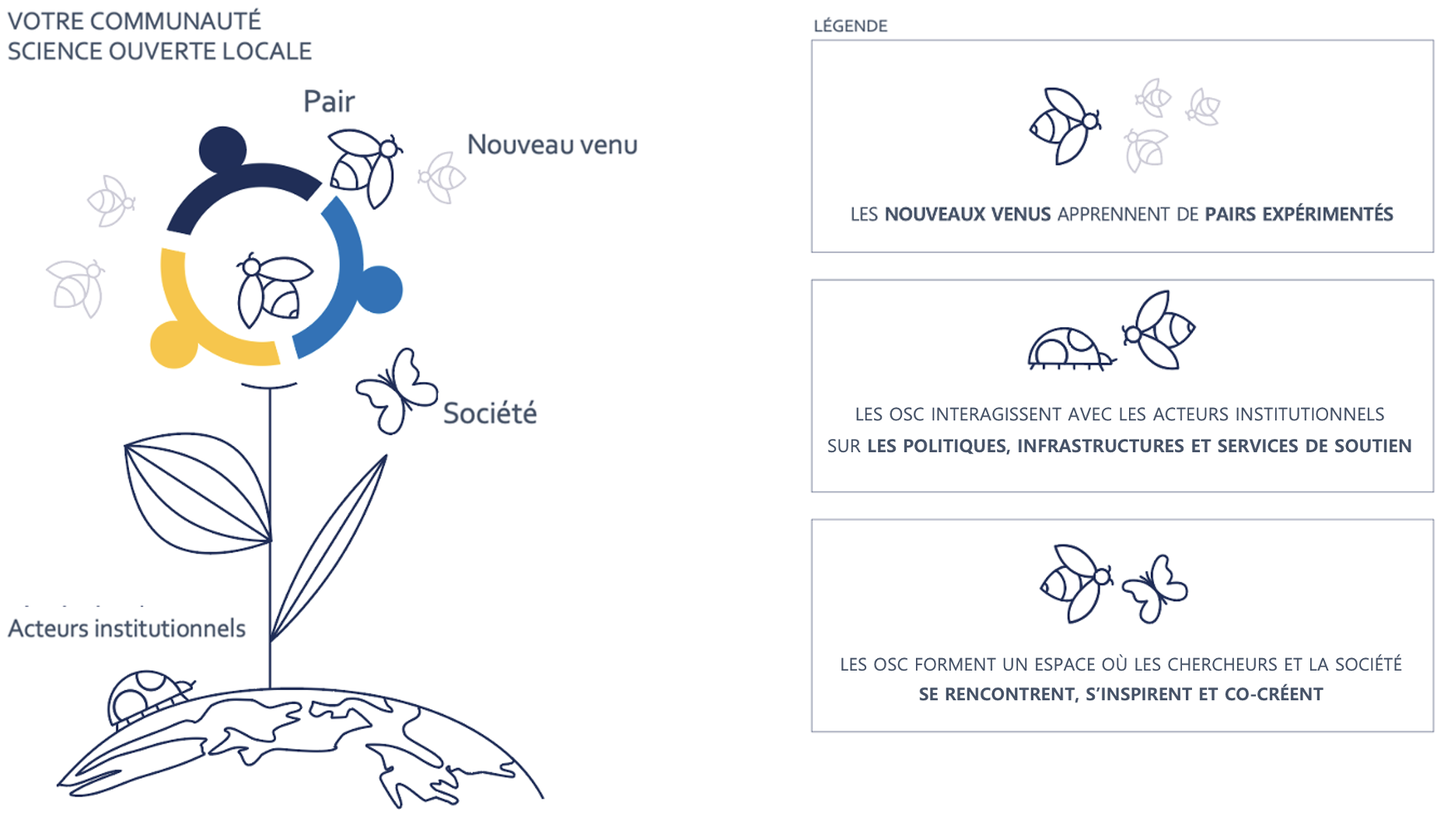
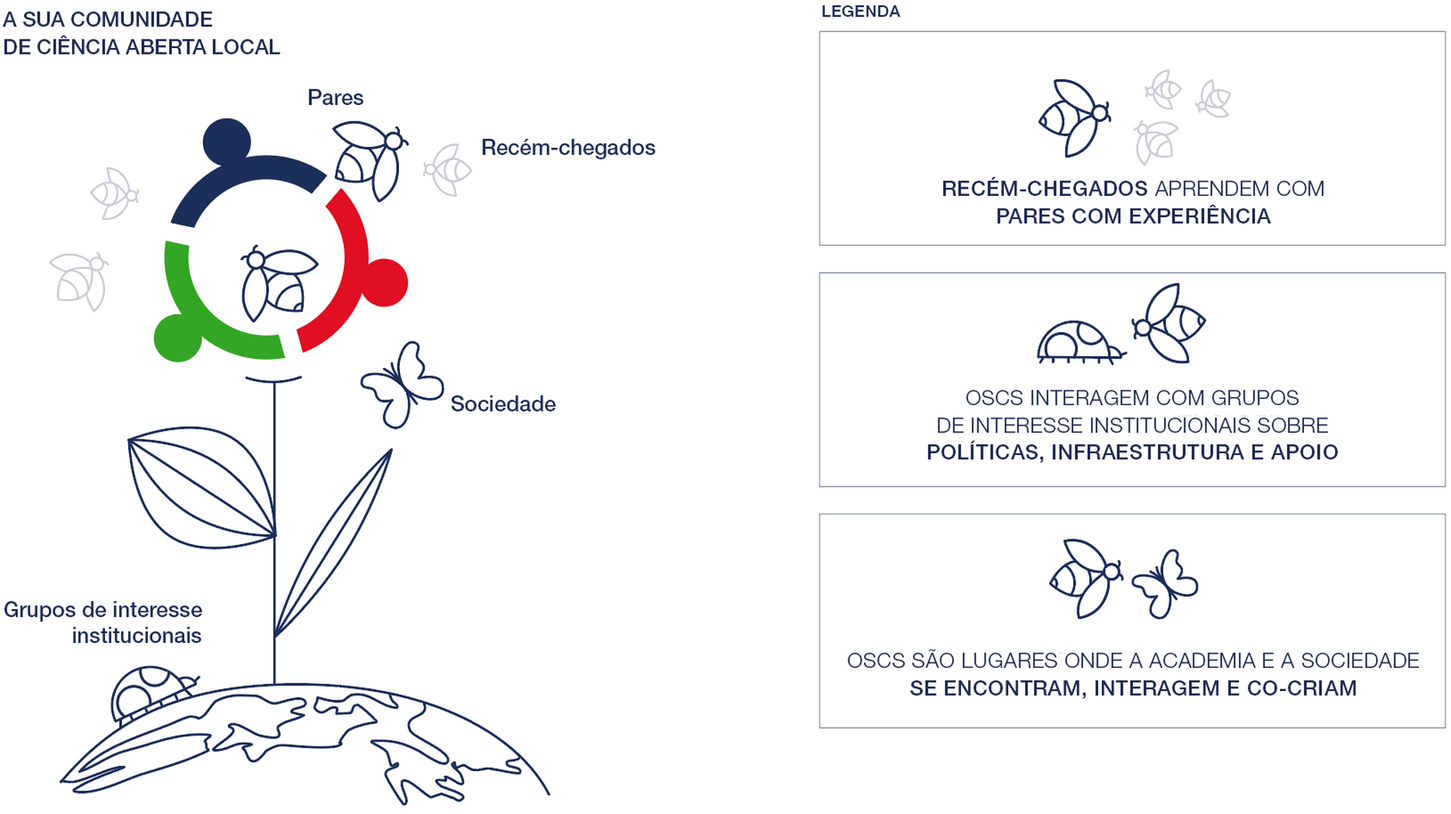
Chapter 1

diff --git a/content/pt/docs/chapter1/_index.md b/content/pt/docs/chapter1/_index.md
@@ -1,147 +1,147 @@
 ---
 # Title, summary, and page position.
-linktitle: 'Partie I : Introduction aux Communautés science ouverte'
+linktitle: 'Seção I : Introdução às Comunidades Científicas Abertas'
 summary: ''
 weight: 1
 icon: book
 icon_pack: fas
 
 # Page metadata.
-title: 'Partie I'
-date: "2021-10-11"
+title: 'Seção I'
+date: "2022-05-11"
 type: book  # Do not modify.
 ---
 
-## I.1 Le rôle des Communautés dans la transition vers la science ouverte
+## I.1 O papel das comunidades na transição para a Ciência Aberta
 
-La science ouverte[^1] (SO) recouvre un [vaste ensemble de pratiques](https://www.fosteropenscience.eu/themes/fosterstrap/images/taxonomies/os_taxonomy.png) qui ne cesse de croître et qui rend la production scientifique (publications, données, codes, protocoles, etc.) plus accessible, transparente, robuste et inclusive. La raison d'être de ces pratiques est que [l'ouverture améliore la qualité, l'efficacité et l'impact de la science](https://doi.org/10.3390/publications7030046). Si certaines de ces pratiques commencent à se généraliser (par exemple l'accès libre aux publications), d'autres sont loin d'être courantes (par exemple les données ouvertes et les preprints). Si vous lisez ce kit de démarrage, vous connaissez probablement un grand nombre de ces pratiques et vous êtes convaincus que la SO est bénéfique pour la science et la société. Nous le sommes aussi !
+A Ciência Aberta[^1] engloba um [conjunto grande e crescente de práticas](https://www.fosteropenscience.eu/themes/fosterstrap/images/taxonomies/os_taxonomy.png) que tornam a produção académica (publicações, dados, código, protocolos, etc.) mais acessível, transparente, confiável e inclusiva. A lógica por trás de qualquer uma destas práticas é que [a abertura aumenta a qualidade, a eficiência e o impacto da ciência](https://doi.org/10.3390/publications7030046). Si certaines de ces pratiques commencent à se généraliser (par exemple l'accès libre aux publications), d'autres sont loin d'être courantes (par exemple les données ouvertes et les preprints). Enquanto algumas práticas estão a começar a tornar-se mais difundidas (como a *Publicação em Acesso Aberto*), outras estão longe de ser aplicadas de forma corrente (por exemplo, *Dados abertos e Pré-impressões*). Se está a ler este Kit de Iniciação, provavelmente conhece muitas destas práticas e está convencido de que a Ciência Aberta é benéfica para a ciência e para a sociedade. Nós também!
 
-À première vue, la transition vers la SO peut sembler plutôt facile à réaliser. Pourquoi les gens n'adopteraient-ils pas ce formidable ensemble de nouvelles pratiques ? En réalité, cela ne demande rien de moins qu'un profond changement culturel dans le monde académique. Comme l'explique Brian Nosek dans [ce billet de blog](https://cos.io/blog/strategy-culture-change/), un changement culturel nécessite un ensemble d'ingrédients clés que l'on peut représenter sous forme de pyramide (*Figure 1*).
-
-***
-
-![La pyramide du changement culturel](./fig1.png "La pyramide du changement culturel")
-***Figure 1**. La pyramide du changement culturel. Illustration de Brian Nosek (sous [licence CC BY](https://twitter.com/BrianNosek/status/1446528277271748611)), tirée du billet de blog [Strategy for Culture Change](https://www.cos.io/blog/strategy-for-culture-change)*
+À primeira vista, a transição para a Ciência Aberta pode parecer bastante fácil de realizar. Por que motivo as pessoas não abraçariam este grande novo conjunto de práticas? Na realidade, requer nada menos do que uma profunda mudança cultural na academia. Conforme articulado por Brian Nosek nesta [publicação no blog](https://cos.io/blog/strategy-culture-change/), uma mudança de cultura precisa de um conjunto de ingredientes-chave que podem ser representados como uma pirâmide (*Figura 1*).
 
 ***
 
-Au sommet de cette pyramide se trouve la **politique**. Pour un changement culturel en faveur de la SO dans le monde académique, des politiques publiques sont nécessaires pour la promouvoir et s'assurer que les incitations institutionnelles sont alignées en conséquence. Au bas de cette pyramide, nous trouvons l'**infrastructure** nécessaire. Il est essentiel de disposer d'une infrastructure fiable, flexible et ergonomique pour mettre en pratique la science ouverte. Les plateformes en ligne permettent de mettre en place des flux de travail collaboratifs (par ex. [Open Science Framework](https://cos.io/)), de stocker et partager des données, codes et autres résultats (voir également [EOSC](https://www.eosc-portal.eu/)) et des services de soutien, par exemple, ceux fournis par les services de documentation. Cependant, malgré les politiques récentes et les infrastructures disponibles, nous attendons toujours un véritable changement culturel. Qu'est-ce qui nous retient ? Ce défi se situe au niveau de la couche intermédiaire de la pyramide, les **communautés** qui rendent la SO normale. À l'heure actuelle, la communauté scientifique engagée dans la SO est relativement restreinte et se compose principalement de personnes qui ont déjà une certaine pratique de la SO. Ces pionniers de la SO jouent souvent un rôle consultatif en matière de politique et d'infrastructure. Bien que leur contribution soit extrêmement précieuse, ils peuvent négliger les obstacles rencontrés par les nouveaux venus dans la SO. Ces nouveaux venus représentent le champ scientifique dans son sens le plus large : il ne s'agit pas seulement d'étudiants ou de chercheurs en début de carrière, mais aussi de chercheurs senior qui sont habitués à un mode de travail pendant des décennies et qui s'intéressent maintenant à des pratiques plus ouvertes. Si l'on n'implique pas cette communauté plus large et si l'on ne fait pas appel à des objectifs et des valeurs partagés, la SO risque de devenir une perte de temps ou "une case de plus à cocher" au lieu d'enrichir les méthodes de travail de chacun. L'adoption à grande échelle de la SO dépend donc de la transition des pionniers à la majorité précoce et tardive (*Figure 2*).
+![A pirâmide da mudança cultural](./fig1.png "A pirâmide da mudança cultural")
+***Figura 1**. A pirâmide da mudança de cultura. Imagem de Brian Nosek (sous [licenciada CC BY-ND 4.0](https://twitter.com/BrianNosek/status/1446528277271748611)), reproduzida da publicação do blog [Strategy for Culture Change](https://www.cos.io/blog/strategy-for-culture-change).*
 
 ***
 
-![Cycle de diffusion de l'innovation selon Everett Rogers](./fig2.png "Cycle de diffusion de l'innovation selon Everett Rogers")
-***Figure 2**. [Cycle de diffusion de l'innovation selon Everett Rogers](https://en.wikipedia.org/wiki/Technology_adoption_life_cycle#/media/File:DiffusionOfInnovation.png), indiquant les étapes par lesquelles passe généralement toute innovation : Innovateurs, Premiers adeptes, Majorité précoce, Majorité tardive, Retardataires.*
+No topo desta pirâmide está a **Política**. Para uma mudança cultural em direção à Ciência Aberta na academia, são necessárias políticas para a promover e garantir que os incentivos institucionais estejam alinhados com a Ciência Aberta. Na base dessa pirâmide, encontramos a **infraestrutura** necessária. Ter uma infraestrutura confiável, flexível e fácil de usar é essencial para colocar a Ciência Aberta em prática. As plataformas online permitem fluxos de trabalho colaborativos (por exemplo, a [Open Science Framework](https://cos.io/)), para armazenar e partilhar materiais, dados, código e os resultados (veja também a [European Open Science Cloud](https://www.eosc-portal.eu/)) e serviços de suporte, como aqueles fornecidos por Bibliotecas Universitárias ou de Politécnicos. Apesar das políticas recentes e da infraestrutura disponível, ainda estamos a aguardar uma verdadeira mudança cultural. O que está nos está a atrasar? Este desafio está na camada do meio da pirâmide, nas **Comunidades** que tornam a Ciência Aberta estatutária. Atualmente, a comunidade académica comprometida com a Ciência Aberta é relativamente pequena e consiste principalmente de pessoas pioneiras, que muitas vezes já são bastante experientes com práticas de Ciência Aberta. Estes pioneiros geralmente desempenham um papel consultivo em políticas e infraestrutura. Embora a sua contribuição seja extremamente valiosa, eles podem ignorar obstáculos enfrentados pelos recém-chegados à Ciência Aberta. Estes recém-chegados abrangem o campo académico de forma ampla: eles não serão apenas estudantes ou investigadores em início de carreira, mas provavelmente também académicos seniores, com prática de trabalho científico de décadas, que se interessaram agora em trabalhar de forma aberta com outros académicos. Sem envolver esta comunidade mais alargada e apelar para objetivos e valores científicos partilhados, a Ciência Aberta corre o risco de se tornar demorada, em vez de enriquecer as metodologias de trabalho de todos. A prática de Ciência Aberta em larga escala depende, portanto, da sua capacidade de ser adotada, dos pioneiros para a maioria da comunidade académica (*Figura 2*).
 
 ***
 
-Tout changement culturel a besoin d'une masse critique pour remettre en question et modifier le *statu quo*, et l'apport des nouveaux venus est essentiel pour affiner la politique et l'infrastructure nécessaires pour parvenir à une adoption large de la SO. Le principal défi de la transition vers la science ouverte est donc un **défi social** : comment impliquer une masse critique de la communauté scientifique ? Si beaucoup vivent la transition vers l'ouverture comme libératrice et plus conforme à leurs motivations intrinsèques, d'autres sont plus réticents à changer pour plusieurs raisons. Il se peut qu'ils soient à l'aise dans leurs pratiques actuelles, qu'ils n'en voient pas les avantages, qu'ils considèrent que l'investissement n'en vaut pas la peine, ou qu'ils soient dépassés et frustrés par la surcharge d'information et l'absence de norme et de reconnaissance institutionnelle. Certains pourraient même penser que la SO n'est qu'une phase, et voudront attendre que cela se calme. Sauf que ça ne se calmera pas. La transition est bel et bien là et tous les chercheurs devront y faire face. Le moment est venu de construire et de façonner cette transition et, pour cela, nous avons besoin de la contribution de la communauté scientifique dans son ensemble.
+![Curva do Sino de Roger](./fig2.png "Curva do Sino de Roger")
+***Figura 2**. [O Ciclo de Vida de Adoção da Inovação, ou Curva do Sino de Roger](https://en.wikipedia.org/wiki/Technology_adoption_life_cycle#/media/File:DiffusionOfInnovation.png), indicando os estágios pelos quais qualquer inovação normalmente passa: Inovadores, Adotantes Iniciais, Maioria Inicial, Maioria Tardia e Retardatários.*
 
-C'est là que les Communautés science ouverte (en anglais *Open Science Communities* ou OSC) entrent en jeu. Il s'agit de communautés d'apprentissage par la base conçues pour une grande partie des chercheurs. Pour ce faire, nous rendons les OSC plus **visibles**, plus **accessibles**, et nous explorons les **obstacles et les exigences** qui se présentent aux nouveaux venus qui veulent ouvrir leurs pratiques. Pour une présentation plus détaillée du rôle des OSC dans la transition vers la science ouverte, veuillez lire notre [livre blanc](https://doi.org/10.31222/osf.io/7gct9/).
+***
 
-Pour mettre en place un changement mondial vers la SO, nous avons besoin de nombreuses OSC locales, à travers le monde. C'est avec ces objectifs en tête que nous avons créé ce kit de démarrage, pour vous inspirer et vous permettre de créer une OSC locale. La clé pour accélérer la transition vers la SO peut, littéralement, être entre vos mains.
+Qualquer mudança cultural precisa de massa crítica para desafiar e mudar o *status quo*, e a contribuição dos recém-chegados é essencial para refinar a política e a infraestrutura necessárias para alcançar uma ampla adoção da Ciência Aberta. O principal desafio na transição para a Ciência Aberta é, portanto, um **desafio social**: como atrair a massa crítica necessária da comunidade académica? Enquanto muitos experimentam a transição para a abertura como libertadora e mais de acordo com motivações intrínsecas, outros hesitam em mudar, por várias razões. Podem sentir-se confortáveis com as suas práticas atuais, não entender os benefícios adicionais, não considerar que vale a pena o investimento ou ficar sobrecarregados e frustrados pelo simples acumular de novas informações, e pela falta de práticas padronizadas e de reconhecimento institucional. Alguns podem até sentir que a Ciência Aberta é apenas uma fase e desejarão esperar até que acabe. A realidade é que não vai acabar. A transição é real e todos os estudiosos e investigadores terão de lidar com ela. É a hora de construirmos e moldarmos esta transição e, para isso, precisamos da contribuição da comunidade académica no geral.
 
-## I.2 Notre format pour les Communautés science ouverte
+É aqui que as Comunidades de Ciência Aberta (em inglês *Open Science Communities*, OSCs) entram em cena. São comunidades de aprendizagem "de baixo para cima", projetadas para atrair uma grande parte dos investigadores. Fazemos isto tornando a Ciência Aberta mais **visível**, mais **acessível** e explorando os **obstáculos e os requisitos** para que os recém-chegados tornarem as suas práticas de trabalho mais abertas. Para uma introdução mais elaborada do papel das OSC na transição para a Ciência Aberta, leia nosso [Whitepaper](https://doi.org/10.1093/scipol/scab039).
 
-Le format d'OSC que nous présentons dans ce kit de démarrage est une communauté d'apprentissage **ascendante** (*bottom-up*) composée de membres de différentes disciplines scientifiques à différents stades de leur carrière. Les OSC s'adressent principalement aux universitaires mais toute personne, qu'elle soit issue du secteur privé, des pouvoirs publics ou de la société, est également la bienvenue.
+Para incentivar uma mudança global em direção à Ciência Aberta, precisamos de muitas OSCs locais, em todo o mundo. É com este objetivo em mente que criámos este Kit de Iniciação, para inspirar e capacitar pessoas como você a criar uma OSC local. A chave para acelerar a transição para a Ciência Aberta pode, literalmente, estar nas suas mãos.
 
-Notre vision et notre mission sont :
+## I.2 O Nosso formato para Comunidades de Ciência Aberta
 
-> **Vision et mission**
+O formato de OSCs que apresentamos neste Kit de Iniciação é uma comunidade de aprendizagem **ascendente**, composta por membros de várias disciplinas científicas e estádios de carreira. O principal público-alvo das OSCs são académicos, mas também é extensível a outros. A indústria, ministérios ou cidadãos, também são bem-vindos.
+
+A nossa visão e missão são:
+
+> **Visão e missão**
 >
-> La science ouverte améliore la qualité, l'accessibilité et l'efficacité de la science, mais n'est **pas encore la norme** dans la recherche. Alors que des chercheurs pionniers développent et adoptent les pratiques de science ouverte, la majorité s'en tient au *statu quo*. Pour *passer des pionniers à la pratique courante*, nous devons engager une part significative de la communauté académique.
+> A Ciência Aberta melhora a qualidade, a acessibilidade e a eficiência da ciência, mas ainda **não é a norma** na investigação. Enquanto académicos pioneiros estão a desenvolver e a adotar práticas de Ciência Aberta, a maioria mantém o *status quo*. Para *passar dos pioneiros à prática comum*, precisamos de envolver uma proporção crítica da comunidade de investigadores.
 >
-> C'est ici que les Communautés science ouverte entrent en jeu.
+> É aqui que as Comunidades de Ciência Aberta entram.
 >
-> Les Communautés science ouverte offrent un lieu où **les nouveaux venus et les pairs expérimentés** interagissent, **s'inspirent mutuellement** pour intégrer les pratiques et les valeurs de la science ouverte dans leurs pratiques, et font un retour sur les feuilles de route, l'infrastructure et les services de soutien.
+> As Comunidades de Ciência Aberta fornecem um local onde **recém-chegados e colegas experientes** interagem e **se inspiram uns aos outros** a incorporar práticas e valores de Ciência Aberta nos seus métodos de trabalho, enquanto fornecem feedback sobre políticas, infraestrutura e serviços de apoio.
 >
-> Ensemble, nous faisons de la science ouverte une norme !  
+> Juntos, fazemos da Ciência Aberta a norma!
 
-La mission ci-dessus peut être décomposée en objectifs pratiques (*Figure 3*) :
+A missão acima pode ser dividida em objetivos práticos (*Figura 3*) :
 
-> **Objectifs**
-> - Accueillir les nouveaux venus à la science ouverte
-> - Augmenter l'appropriation des pratiques de science ouverte
-> - Servir de terreau aux initiatives de science ouverte
-> - Interagir avec les politiques, les infrastructures et les services de soutien
-> - Renforcer les interactions entre le monde académique et la société
+> **Objetivos**
+> - Convide recém-chegados para a Ciência Aberta
+> - Aumente o seu envolvimento em práticas de Ciência Aberta
+> - Sirva como um terreno fértil para iniciativas de Ciência Aberta
+> - Interaja com políticas, infraestrutura e serviços de apoio
+> - Promova interações entre a academia e a sociedade
 
 ***
 
-![Principales raisons d'être des OSC](./fig3.png "Principales raisons d'être des OSC")
-***Figure 3**. Schéma présentant les principales raisons d'être d'une Communauté science ouverte (en légende).*
+![Principais objetivos das OSC](./fig3.png "Principais objetivos das OSC")
+***Figura 3**. Infográfico que destaca os principais objetivos de uma Comunidade de Ciência Aberta (ver legenda).*
 
 ***
 
-*Objectif n°&nbsp;1 - Accueillir les nouveaux venus à la science ouverte*  
-L'objectif principal d'une OSC est d'accueillir les nouveaux venus dans le domaine de la SO et de proposer un espace où ils peuvent apprendre de leurs pairs et identifier les moyens de surmonter les difficultés lors de la transition vers des pratiques (plus) ouvertes. Une OSC est une communauté d'apprentissage : il n'est pas nécessaire d'avoir une quelconque expérience de la SO pour rejoindre la Communauté, ni de s'engager formellement à adopter de telles pratiques. Ce qui unit les membres de la Communauté, c'est leur intérêt pour la SO, affiché publiquement sur le site web de leur OSC.   
-Pour interagir avec les nouveaux venus, il est crucial qu'ils connaissent l'existence de votre Communauté. Vous devez être visible. De même, les nouveaux venus doivent être attirés par la Communauté. Ils doivent se sentir chez eux. Il est essentiel de trouver le bon ton. Nous fournissons des consignes pratiques à cet égard dans la [*Partie II*]({{< ref "../chapter2/_index.md" >}}).
+*Objetivo n°&nbsp;1 - Convide os recém-chegados para a Ciência Aberta*  
+O objetivo principal de uma OSC é dar as boas-vindas aos recém-chegados à Ciência Aberta e fornecer uma plataforma onde possam aprender com os seus pares e identificar maneiras de superar barreiras ao fazer a transição para métodos de trabalho (mais) abertos. Uma OSC é uma comunidade de aprendizagem: não precisa de ter nenhuma experiência com Ciência Aberta para ingressar na comunidade ou para se comprometer com essas práticas ao ingressar. O que une os membros da comunidade é o interesse pela Ciência Aberta, exibido publicamente no site da sua Comunidade.
+Para interagir com os recém-chegados, é fundamental que eles saibam da existência da sua Comunidade de Ciência Aberta. É preciso que esteja visível. Além disso, os recém-chegados precisam de ser atraídos para a comunidade. Precisam de se sentir em casa. É esta a chave para se atingir o tom certo. Fornecemos orientações práticas a esse respeito na [*Seção II*]({{<ref"../chapter2/_index.md">}}).
 
-*Objectif n°&nbsp;2 - Augmenter l'appropriation des pratiques de science ouverte*   
-Augmenter l'appropriation des pratiques de SO est la clé notre mission. Il s'agit  d'inciter les nouveaux venus à faire leurs premiers pas, mais aussi de consolider leurs pratiques actuelles de la SO parmi les collègues qui ont déjà changé (une partie de) leur méthode de travail. Notre principale stratégie consiste à faciliter l'échange de connaissances entre pairs. Dans la [*Partie II*]({{< ref "../chapter2/_index.md" >}}), nous fournissons plusieurs exemples concrets de formats qui favorisent l'échange de connaissances entre pairs.
+*Objetivo n°&nbsp;2 - Aumente o envolvimento com as práticas de Ciência Aberta*   
+Aumentar o envolvimento com as práticas de Ciência Aberta é central para a nossa missão. Isto inclui inspirar os recém-chegados a dar os seus primeiros passos, mas também a consolidar as práticas atuais de Ciência Aberta entre colegas que já aderiram ao (partes do) seu método de trabalho. A nossa principal estratégia é facilitar a troca de conhecimento entre os pares. Na [*Seção II*]({{<ref"../chapter2/_index.md">}}), fornecemos vários exemplos práticos de formatos que promovem a troca de conhecimento entre pares.
 
-*Objectif n°&nbsp;3 - Servir de terreau aux initiatives de science ouverte*
-Le succès d'une Communauté dépend des contributions de ses membres. Il est donc important de **permettre aux membres de lancer leurs propres initiatives** au sein de la Communauté. Ces initiatives peuvent être facilitées en fournissant des lignes directrices, en les annonçant sur le site web, la *newsletter* et les réseaux sociaux et, si possible, en leur allouant un budget. Au lieu de proposer de nouvelles initiatives, les membres peuvent également transposer des formats qui ont fait leurs preuves dans d'autres OSC notamment. Des conseils pratiques et des exemples d'initiatives ayant fait leurs preuves sont détaillés dans la [*Partie II*]({{< ref "../chapter2/_index.md" >}}).
+*Objetivo n°&nbsp;3 - Sirva como terreno fértil para iniciativas de Ciência Aberta*
+O sucesso de uma Comunidade depende das contribuições dos seus membros. Portanto, é importante **permitir que os membros iniciem as suas próprias iniciativas** dentro da Comunidade. Essas iniciativas dos membros podem ser facilitadas fornecendo diretrizes, anunciando-as no website, no *boletim informativo*, nos media social e, se possível, alocando orçamento. Em vez de desenvolver novas iniciativas, os membros também podem adotar formatos existentes que tiveram sucesso comprovado noutras instituições (por exemplo, noutras OSCs). Diretrizes práticas e exemplos de formatos de sucesso são detalhados na [*Seção II*]({{<ref"../chapter2/_index.md">}}).
 
-*Objectif n°&nbsp;4 - Interagir avec les politiques, les infrastructures et les services de soutien*   
-L'une des principales caractéristiques d'une OSC est qu'elle fonctionne **indépendamment** de la politique institutionnelle. Cela signifie que la Communauté est une organisation autonome qui ne reçoit pas d'instructions, d'objectifs ou de tâches d'autres parties. Cependant, les OSC ne doivent pas fonctionner de manière isolée. Comme indiqué dans la [*Partie I.1*](#I.1-Le-rôle-des-Communautés-dans-la-transition-vers-la-science-ouverte), les OSC ont leur place entre la politique et l'infrastructure. La politique prescrit ce qui est requis, souhaité et encouragé ; l'infrastructure détermine ce qui est possible ; mais la Communauté décide comment les choses se font en pratique. Pour faciliter une transition en douceur vers la SO, toutes les parties prenantes doivent collaborer. C'est pourquoi le(s) coordinateur(s) de la Communauté s'efforce(nt) de renforcer les liens avec les collègues occupant des postes de direction, en particulier ceux impliqués dans les **politiques institutionnelles, les infrastructures et les services de soutien**. Des exemples pratiques de collaboration avec ces acteurs sont abordés dans la [*Partie II*]({{< ref "../chapter2/_index.md" >}}).
+*Objetivo n°&nbsp;4 - Interaja com políticas, infraestrutura e serviços de apoio*   
+Uma das principais características de uma OSC é que ela opera **independentemente** da política institucional. Isso significa que a comunidade é uma organização autodirigida que não recebe instruções, metas ou tarefas de outros. No entanto, as OSCs não devem operar isoladamente. Conforme discutido na [*Seção I.I*](#I.1-O-papel-das-comunidades-na-transição-para-a-Ciência-Aberta), as OSCs estão bem posicionadas entre a política e a infraestrutura. A política descreve o que é necessário, desejado e incentivado; a infraestrutura determina o que é possível; mas a comunidade determina como as coisas são feitas na prática. Para facilitar uma transição suave para a Ciência Aberta, todas as partes interessadas precisam de colaborar. Portanto, o(s) coordenador(es) da(s) comunidade(s) esforça(m)-se para aumentar as conexões com colegas em cargos de liderança, em particular aqueles envolvidos em **políticas institucionais, infraestrutura e apoio**. Exemplos práticos de colaboração são discutidos na [*Seção II*]({{<ref"../chapter2/_index.md">}}).
 
-*Objectif n°&nbsp;5 - Renforcer les interactions entre le monde académique et la société*
-La SO est non seulement ouverte aux collègues du monde académique, mais aussi ouverte à la société. Nous encourageons donc les interactions entre les chercheurs et les acteurs de la société : société civile organisée, citoyens, patients, hommes et femmes politiques, entreprises. Une première étape consiste à rendre notre travail accessible à ces acteurs. Quand c'est possible, nous encourageons également à les impliquer à toutes les étapes du cycle de la recherche.
+*Objetivo n°&nbsp;5 - Promova interações entre a academia e a sociedade*
+Ciência Aberta significa não apenas aberta aos colegas da academia, mas também à sociedade. Portanto, promovemos interações entre académicos e partes interessadas da sociedade, como a sociedade civil, civis, doentes, políticos e a indústria. Um primeiro passo é tornar o nosso trabalho acessível a essas partes interessadas. Quando aplicável, também incentivamos o seu envolvimento em todas as etapas do ciclo de investigação.
 
 ***
 
-| Objectifs       | Public cible     | Stratégies et formats   |
+| Objetivos       | Público-alvo     | Estratégias e formatos   |
 | :------------- | :----------: | -----------: |
-| Accueillir les nouveaux venus à la science ouverte | Nouveaux venus | Site web, newsletter, dépliants, <br> *goodies*, réseaux sociaux, ton |
-| Augmenter l'appropriation des pratiques de science ouverte | Nouveaux venus et collègues expérimentés | Présentations flash, ateliers, <br> colloques, programmes de mentorat, forum |
-| Servir de terreau aux initiatives de science ouverte | Nouveaux venus et collègues expérimentés | Initiatives des membres, initiatives ayant fait leurs preuves |
-| Interagir avec les politiques, les infrastructures et les services de soutien | Présidents d'université, organes de direction, <br> doyens, bibliothécaires, informaticiens | Réunions de concertation régulières avec les parties prenantes |
-| Renforcer les interactions entre le monde académique et la société | Chercheurs, société civile | Colloques, réunions d'information, festivals de science, communication en ligne |
+| Alcance e inclua os recém-chegados em Ciência Aberta | Recém-chegados | Website, boletim informativo, folhetos, mercadoria, media, tom |
+| Aumente o envolvimento com as práticas de Ciência Aberta | Recém-chegados e colegas experientes | Palestras, workshops, simpósios, programas de mentoria, fóruns |
+| Sirva como terreno fértil para iniciativas de Ciência Aberta | Recém-chegados e colegas experientes | Iniciativas de membros, coleção de formatos estabelecidos |
+| Forneça informações para políticas, infraestrutura e apoio | Reitor, conselho, bibliotecários, especialistas em TI | Reuniões regulares com as partes interessadas |
+| Promova interações entre os académicos e a sociedade | Académicos, atores da sociedade civil e cidadãos | Simpósios, reuniões de informação, festivais de ciências, comunicação online |
 
-***Table 1**. Objectifs et publics. Les stratégies et formats sont détaillées dans la [Partie II]({{< ref "../chapter2/_index.md" >}}).*
-
-***
-
-## I.3 Histoire et réussites de nos Communautés science ouverte
-
-Pour un aperçu de la façon dont une OSC peut grandir, regardons comment les OSC des Pays-Bas ont progressé. La première OSC a été celle d'Utrecht ([OSCU](https://openscience-utrecht.com/)), lancée en 2018 à l'Université d'Utrecht par deux chercheurs passionnés par la SO. Ils ont commencé par rendre plus visibles les pratiques de SO dans leur université, en demandant à des collègues impliqués dans la SO de rejoindre la Communauté et en listant leurs expertises SO sur le site web. En outre, ils ont recruté des membres qui étaient intéressés par la SO, mais qui n'avaient pas d'expérience dans ce domaine. Ces membres pouvaient alors contacter leurs pairs plus expérimentés pour en savoir plus sur certaines pratiques. En outre, les membres de l'OSCU ont reçu un bulletin d'information mensuel et les fondateurs ont commencé à mettre en valeur la Communauté sur le campus et sur les médias sociaux. Au fil du temps, le nombre de membres a augmenté et l'OSCU a commencé à organiser une série d'ateliers sur des thèmes choisis par une enquête auprès de ses membres. En outre, les fondateurs ont créé un [tutoriel étape par étape](https://openscience-utrecht.com/community-blueprint/) décrivant comment ils ont lancé l'OSCU, afin d'aider les collègues d'autres universités à lancer une initiative similaire dans leur université. En un an, des collègues de plusieurs universités néerlandaises (*Figure 3*) ont lancé des OSC parallèles, fonctionnant sous un acronyme et un logo similaires et partageant un ensemble de Principes directeurs et un Code de conduite[^2].
-
-Au bout d'un an, l'OSCU a obtenu un financement de l'Université d'Utrecht pour développer et pérenniser ses activités, ce qui a conduit à la désignation d'ambassadeurs chargés de promouvoir la Communauté dans leurs facultés respectives via les réunions de l'OSC-NL (OSC Pays-Bas). Après la première réunion OSC-NL, une pléthore d'ateliers et d'événements sur la SO ont été organisés bien au-delà d'Utrecht. Par exemple, au cours de la première année qui a suivi la participation à la première OSC-NL, la Communauté science ouverte de Groningen (OSCG) a lancé une pétition dans laquelle 244 membres du personnel de l'Université de Groningen ont indiqué être prêts à soutenir activement l'OSCG. Après son lancement officiel, l'OSCG a organisé six exposés et ateliers (par exemple sur la visualisation des données, le pré-enregistrement (*registered reports*) etc.), a lancé un [site Web](https://openscience-groningen.nl/), un [compte Twitter](https://twitter.com/OSCGroningen) et une [chaîne YouTube](https://www.youtube.com/channel/UCNqQuXVcwnnof_7QEIaabdQ), et a commencé à envoyer une lettre d'information bimestrielle à l'OSCG (227 abonnés). Plus récemment, en collaboration avec le service de documentation, ils ont mis en place un [Prix de la science ouverte](https://openscience-groningen.nl/call-for-submissions-open-research-awards/) annuel pour le personnel et les étudiants de l'université.   
-
-En moins de deux ans, 11 Communautés science ouverte ont vu le jour aux Pays-Bas et deux en dehors des Pays-Bas (*Figure 4*), qui ont toutes organisé différentes activités et cherché où ils pouvaient contribuer le plus à faire avancer la SO dans leur université (voir *Encadré 1* pour un aperçu des réalisations). Si cette approche organique était rapide, amusante et efficace à court terme, elle manquait d'un objectif ou d'une stratégie globale claire. Les décisions étaient généralement prises de manière *ad hoc* (devrions-nous organiser un autre atelier ? ou lancer un blog ? ou… ou…) et il était difficile d'évaluer le succès de nos Communautés sur le terrain. Nous avons donc décidé de prendre du recul et de réfléchir à nos objectifs, stratégies et outils, que nous présentons maintenant dans ce kit de démarrage[^3].
-
-> ***Encadré 1.** Réussites des Communautés science ouverte depuis 2018.*
-> - OSC dans douze[^4] universités néerlandaises, totalisant plus de 700 membres (et ce n'est pas fini !)
-> - trois OSC en dehors des Pays-Bas : en Suède, en Irlande et en Arabie Saoudite
-> - nombreux ateliers et événements de science ouverte, jusqu'à 75 participants
-> - plusieurs blogs tenus sur divers sujets liés à la science ouverte (par exemple, ce billet ["10 mythes de la science ouverte"](https://openscience-groningen.nl/10-open-science-myths/)).
-> - [Prix de la science ouverte](https://openscience-groningen.nl/call-for-submissions-open-research-awards/) lancé par l'OSCG
-> - sollicitations fréquentes pour animer des conférences et des ateliers sur la science ouverte lors d'événements nationaux et internationaux
-> - contribution à d'importantes demandes de financement en Europe et aux États-Unis
-> - sollicitations fréquentes pour conseiller les décideurs locaux
-> - sollicitations fréquentes pour promouvoir des ressources (bibliothèques universitaires, projet national ORCID)
-> - reconnaissance au niveau local par les [présidents d'université](https://www.uu.nl/sites/default/files/uu-oaj-2019-2020-henk-kummeling.pdf) et les doyens et, au niveau international, par le [Center for Open Science](https://www.cos.io/blog/how-build-open-science-network-your-community) et la [Society for the Improvement of Psychological Science](https://improvingpsych.org/mission/awards/).
+***Tabela 1**. Objetivos e públicos-alvo. Estratégias e formatos são detalhados na [*Seção II*]({{<ref"../chapter2/_index.md">}}).*
 
 ***
 
-![INOSC](./fig4.png "Vue d'ensemble des Communautés science ouverte actuelles")
-***Figure 4**. Vue d'ensemble des Communautés science ouverte actuelles. À la date de janvier 2022, le Réseau international des Communautés science ouverte (en anglais *International Network of Open Science Communities* ou INOSC) compte 12 Communautés science ouverte aux Pays-Bas, 1 en Irlande, 1 en Suède et 1 en Arabie Saoudite. Image par [Anita Eerland](http://www.anitaeerland.com/about/), sous licence [CC BY-ND 3.0](https://creativecommons.org/licenses/by-nd/3.0/nl/deed.en).*
+## I.3 História e Realizações das nossas Comunidades de Ciência Aberta (OSC)
+
+Para ter uma ideia de como uma OSC pode evoluir, vamos dar recordar como avançaram na Holanda. A primeira OSC foi a de Utrecht ([OSCU](https://openscience-utrecht.com/)), iniciada em 2018 nesta Universidade por dois investigadores entusiastas da Ciência Aberta. Começaram e tornaram mais visível a prevalência de práticas de Ciência Aberta na sua universidade, pedindo a colegas que estavam envolvidos em Ciência Aberta para se juntarem numa Comunidade e publicarem a sua experiência em Ciência Aberta no website dessa Comunidade. Além disso, recrutaram membros que estavam interessados em Ciência Aberta, mas que não tinham experiência anterior com ela. Estes membros poderiam entrar em contato com os seus colegas mais experientes para saber mais sobre práticas de Ciência Aberta. Por outro lado, os membros da OSCU receberam um boletim mensal e os fundadores começaram a envolver-se na comunidade ao redor do campus e nos media. Com o tempo, o número de membros aumentou e a OSCU começou a organizar uma série de workshops cujos temas foram baseados nos resultados a um inquérito aos seus membros. Além disso, os fundadores criaram um [tutorial passo a passo](https://openscience-utrecht.com/community-blueprint/) descrevendo como iniciaram a OSCU, para ajudar colegas de outras universidades a iniciar uma iniciativa semelhante na sua universidade. Dentro de um ano, colegas de várias universidades holandesas (*Figura 4*) iniciaram OSCs paralelas, operando sob um acrónimo e logotipo semelhantes e partilhando um conjunto de Princípios Orientadores e um Código de Conduta[^2].
+
+Após um ano, a OSCU obteve um orçamento da Universidade de Utrecht para desenvolver e sustentar as suas atividades, o que levou à nomeação de Embaixadores das Faculdades para promover a Comunidade nas suas respetivas faculdades por meio de reuniões da OSC-NL (OSC Holanda). Após a primeira reunião da OSC-NL, organizaram-se uma série de workshops e de eventos de Ciência Aberta, muito além de Utrecht. Por exemplo, no primeiro ano após participar do primeiro OSC-NL, a Open Science Community Groningen (OSCG) realizou uma petição na qual 244 funcionários da Universidade de Groningen indicaram que estariam dispostos a apoiar ativamente a OSCG. Após o início oficial, o OSCG organizou seis palestras e workshops (por exemplo, sobre visualização de dados, relatórios registados e pré-registo para estudos qualitativos), lançou um [website](https://openscience-groningen.nl/), uma [conta no Twitter](https://twitter.com/OSCGroningen) (com 420 seguidores para já) e um [canal no YouTube](https://www.youtube.com/channel/UCNqQuXVcwnnof_7QEIaabdQ), e passou a enviar uma newsletter bimestral da OSCG (227 assinantes). Mais recentemente, em colaboração com a Biblioteca da Universidade, criaram um [Prémio de Investigação Aberta](https://openscience-groningen.nl/call-for-submissions-open-research-awards/) anual para colaboradores e estudantes universitários.
+
+Em menos de dois anos, surgiram onze OSCs na Holanda e duas fora da Holanda (*Figura 4*), que organizaram diferentes atividades de Ciência Aberta e que se preocuparam em saber onde poderiam contribuir mais dentro daquela universidade específica (veja a *tabela 2* para uma visão geral das concretizações). Embora essa abordagem orgânica fosse rápida, divertida e eficaz no curto prazo, faltava uma estratégia ou uma meta abrangente e clara. As decisões eram tipicamente tomadas *ad hoc* (devemos organizar outro workshop? Ou iniciar um blog? Ou... Ou...) e era difícil avaliar o sucesso de nossas Comunidades na prática. Por isso, decidiu-se dar um passo atrás e refletir sobre nossos objetivos, estratégias e ferramentas, que agora articulamos neste Kit de Iniciação[^3].
+
+> ***Tabela 2.** Conquistas das OSCs desde 2018.*
+> - OSCs em doze[^4] Universidades Holandesas, totalizando mais de 700 membros (e a crescer!)
+> - Três OSCs fora da Holanda: Suécia, Irlanda e Arábia Saudita
+> - Muitos workshops e eventos de Ciência Aberta, com até 75 participantes
+> - Vários blogs de Ciência Aberta escritos sobre vários tópicos relacionados com o tema da Ciência Aberta (por exemplo, ["10 Mitos da Ciência Aberta"](https://openscience-groningen.nl/10-open-science-myths/)
+> - A OSCG lançou o [Open Research Award anual](https://openscience-groningen.nl/call-for-submissions-open-research-awards/)
+> - Solicitações frequentes para ministrar palestras e workshops de Ciência Aberta em eventos nacionais e internacionais
+> - Contribuição para grandes propostas de financiamento da UE e dos EUA
+> - Solicitações frequentes para aconselhar na execução de políticas locais
+> - Solicitação frequente para promover materiais (por exemplo, para bibliotecas universitárias ou para o projeto nacional ORCID)
+> - Receção de reconhecimento local de [Reitores](https://www.uu.nl/sites/default/files/uu-oaj-2019-2020-henk-kummeling.pdf) e internacional, do [Center for Open Science](https://www.cos.io/blog/how-build-open-science-network-your-community) e da [Society for the Improvement of Psychological Science](https://improvingpsych.org/mission/awards/)
 
 ***
 
-## I.4 Appel à l'action
-
-En tant que coordinateurs de la Communauté locale, nous sommes très heureux et fiers de ce que nous avons réalisé jusqu'à présent, mais nous voulons toujours plus[^5] ! C'est pourquoi nous encourageons nos collègues du monde entier à créer des OSC dans leurs universités ou centres de recherche, afin de créer un élan pour un changement de culture à l'échelle mondiale en faveur de la SO (*Figure 5*). Nous vous invitons donc à créer une OSC locale. N'hésitez pas à vous mettre en relation avec nous afin de partir d'un exemple éprouvé et de profiter de notre réseau actif de coordinateurs de Communautés pour échanger des expériences et des idées. En outre, au fur et à mesure que le réseau s'étend, nous serons à même de solliciter collectivement des financements (inter)nationaux et contribuer aux politiques (inter)nationales. Faire partie du réseau en expansion des OSC signifie que vous adhérez à nos Principes directeurs et à notre Code de conduite, mais que vous concevez et gérez votre Communauté comme bon vous semble, en tenant pleinement compte du contexte local. Ensemble, nous faisons de la SO la norme, au bénéfice de la science et de la société !
-
-***
-
-![Objectifs et raison d'être d'INOSC](./fig5.png "Objectifs et raison d'être d'INOSC")
-***Figure 5**. Les objectifs et raison d'être de l'International Network of Open Science Communities (INOSC).*
+![INOSC](./fig4.png "Visão geral das atuais Comunidades de Ciência Aberta")
+***Figura 4**. Visão geral das atuais Comunidades de Ciência Aberta. A partir de janeiro de 2022, a *Rede Internacional de Comunidades de Ciência Aberta* (INOSC) compreende Comunidades de Ciência Aberta em 12 locais na Holanda, uma na Irlanda, uma na Suécia e uma na Arábia Saudita. Imagem de [Anita Eerland](http://www.anitaeerland.com/about/), licença [CC BY-ND 3.0](https://creativecommons.org/licenses/by-nd/3.0/nl/deed.en).*
 
 ***
 
-[^1] : Le terme de "science" est utilisé ici dans son sens le plus large et inclut des domaines tels que les sciences humaines, les sciences sociales et l'ingénierie — soit toute forme d'érudition.
-[^2] : Il est intéressant de noter que, bien que les OSC soient ouvertes aux membres de toutes les disciplines, les fondateurs de ces Communautés sont souvent des chercheurs dans le domaine des sciences sociales. Cela s'explique probablement par le fait que le discours autour de la SO est très vivant dans cette discipline, mais aussi parce que la plupart des coordinateurs des OSC participent aux mêmes événements. L'un des plus influents à cet égard est la réunion annuelle de la Society for the Improvement of Psychological Sciences ([SIPS](http://improvingpsych.org/)), où le format des OSC a été activement promu par les fondateurs de l'OSCU.
-[^3] : Dans le cas de Loek Brinkman et Antonio Schettino, ce processus de réflexion a été inspiré par le programme [eLife Innovation Leaders](https://elifesciences.org/labs/ea8e2f51/introducing-innovation-leaders-2020), lui-même inspiré par [Mozilla Open Leaders](https://foundation.mozilla.org/en/initiatives/mozilla-open-leaders/).
-[^4] : OSCA est une collaboration entre deux universités : l'Université d'Amsterdam (UvA) et la Vrije Universiteit Amsterdam (VU).
-[^5] : Comme le dit la chanson, [We've Only Just Begun](https://www.youtube.com/watch?v=__VQX2Xn7tI) !
+## I.4 Chamada à ação
+
+Como coordenadores da comunidade local, estamos muito felizes e orgulhosos do que conquistámos até agora, mas queremos mais[^5]! É por isso que incentivamos colegas de todo o mundo a iniciarem OSCs locais nas suas universidades/ politécnicos ou centros de investigação, para criar impulso para uma mudança de cultura global na academia em direção à Ciência Aberta (*Figura 5*). Então, convidamo-lo a iniciar uma OSC local. Por favor, conecte-se connosco para que possa começar com um exemplo já desenvolvido e fazer uso de nossa rede ativa de Coordenadores da Comunidade, para trocar experiências e ideias. Além disso, à medida que a rede se expande, estaríamos em melhor posição para candidatura coletiva a financiamento (inter)nacional e contribuir para políticas (inter)nacionais. Tornar-se parte da crescente rede de OSCs significa que você adere aos nossos Princípios Orientadores e Código de Conduta coletivos, mas projeta e gere a sua comunidade como achar melhor, levando em consideração o contexto local. Juntos, fazemos da Ciência Aberta a norma, em benefício da ciência e da sociedade!
+
+***
+
+![Objetivo e Propósito da INOSC - International Network of Open Science Communities](./fig5.png "Objetivo e Propósito da INOSC - International Network of Open Science Communities")
+***Figura 5**. Objetivo e propósito da Rede Internacional de Comunidades Científicas Abertas (INOSC)).*
+
+***
+
+[^1]: O termo “Ciência” é usado aqui no seu sentido mais amplo e inclui áreas como humanidades, ciências sociais e engenharia; isto é, refere-se mais a qualquer forma de conhecimento.\
+[^2]: É interessante notar que, embora as OSCs sejam abertas a membros de todas as disciplinas, os fundadores destas comunidades são muitas vezes investigadores da área das Ciências Sociais. Isso provavelmente ocorre porque o discurso em torno da Ciência Aberta é muito vivo nesta área, mas também porque a maioria dos coordenadores de OSCs participa nos mesmos eventos. Um dos mais influentes a este respeito é a reunião anual da Sociedade para o Aperfeiçoamento das Ciências Psicológicas ([SIPS](http://improvingpsych.org/)), onde o formato da OSC foi ativamente promovido pelos fundadores da OSCU.\
+[^3]: No caso de Loek Brinkman e Antonio Schettino, esse processo de reflexão foi inspirado no programa [eLife Innovation Leaders](https://elifesciences.org/labs/ea8e2f51/introducing-innovation-leaders-2020), que também foi inspirado no [Mozilla Open Leaders](https://foundation.mozilla.org/en/initiatives/mozilla-open-leaders/).\
+[^4]: OSCA é uma colaboração entre duas universidades: a Universidade de Amsterdã (UvA) e a Vrije Universiteit Amsterdam (VU).\
+[^5]: [E nós apenas começámos!](https://www.youtube.com/watch?v=__VQX2Xn7tI)!
